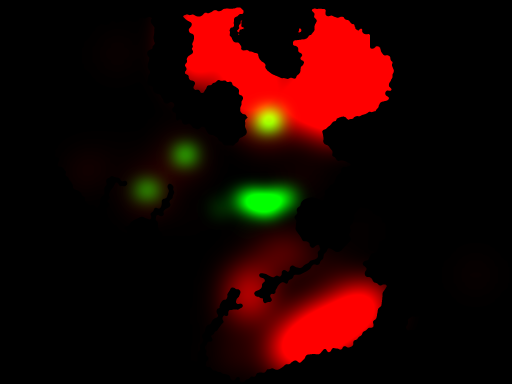
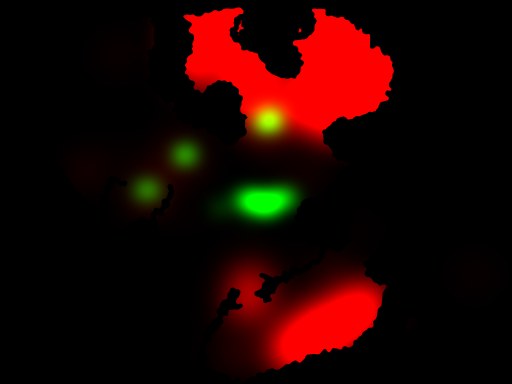
Valdoro on its own higher plateau; zoomable menu map; full-screen button
- Valdoro and its surroundings stand at 12 m, above the central highland: the two
  cracks drawn south-west of it are its cliffs (~18-20 m down to the great forest),
  the sea its east side, slopes north to Roccanera's level and south to the bridge.
  The hill beside the castle was the map's "VALDORO" label read as relief: the
  label is now excluded (world-layers.py) and the layers regenerated.
- Menu map: zoom up to 5x (pinch, wheel, double click, + and -), drag, centre on
  me; the red mark keeps its screen size; the map image at full resolution.
- Full-screen button in the top bar (landscape lock where allowed; a message where
  the browser refuses, e.g. Safari on iPhone).

Claude-Session: https://claude.ai/code/session_01W2BWnsqSCVN6L5QTQsDyst

Changed region(s): [[0.4688, 0.5938, 0.625, 0.7188]]

diff --git a/web/src/components/GameMenu.jsx b/web/src/components/GameMenu.jsx
@@ -1,5 +1,5 @@
 import React, { useLayoutEffect, useRef, useState } from "react";
-import { X, Heart, Pause, RotateCw, Gauge, BatteryMedium, Sword, Shield, Shirt, Castle, Crown, Home, HardHat, Hand, FlaskConical } from "lucide-react";
+import { X, Heart, Pause, RotateCw, Gauge, BatteryMedium, Sword, Shield, Shirt, Castle, Crown, Home, HardHat, Hand, FlaskConical, Crosshair } from "lucide-react";
 import { ITEMS, SWORD_ITEM, TWO_HANDED, dmgReduction, sellPrice } from "@/game3d/items";
 import CharacterPreview from "@/components/CharacterPreview";
 import ItemPic from "@/components/ItemPic";
@@ -228,17 +228,59 @@ function ReputationTab({ hud }) {
 }
 
 // ---- Map tab: the map of Vasilad (the user's drawing), with where the player is and which way it faces ----------
+// The map can be zoomed (two fingers, the mouse wheel, + and -) and dragged; the red mark (where you are, the arrow
+// where you look) keeps its size on the screen whatever the zoom. The view is kept while the game runs.
+const MAX_ZOOM = 5;
+let lastMapView = { z: 1, cx: MAP.w / 2, cy: MAP.h / 2 };
 function MapTab({ hud }) {
   const [px, py, yaw] = hud.map || [MAP.ox, MAP.oz, 0];
+  const [view, setViewState] = useState(lastMapView);
+  const svgRef = useRef(null), ptrs = useRef(new Map()), gest = useRef(null), viewRef = useRef(view);
+  const setView = (v) => {                                     // (kept inside the map)
+    const z = Math.min(MAX_ZOOM, Math.max(1, v.z)), hw = MAP.w / 2 / z, hh = MAP.h / 2 / z;
+    const nv = { z, cx: Math.min(MAP.w - hw, Math.max(hw, v.cx)), cy: Math.min(MAP.h - hh, Math.max(hh, v.cy)) };
+    viewRef.current = lastMapView = nv; setViewState(nv);
+  };
+  // the svg's box and the map's pixels per map unit at zoom 1 (the map fits it whole, centred)
+  const box = () => { const r = svgRef.current.getBoundingClientRect(); return { r, s1: Math.min(r.width / MAP.w, r.height / MAP.h) }; };
+  const mapAt = (v, sx, sy) => { const { r, s1 } = box(); return [v.cx + (sx - r.left - r.width / 2) / (s1 * v.z), v.cy + (sy - r.top - r.height / 2) / (s1 * v.z)]; };
+  // the view at zoom z that shows map point m under the screen point (sx, sy)
+  const viewWith = (z, [mx, my], sx, sy) => { const { r, s1 } = box(); z = Math.min(MAX_ZOOM, Math.max(1, z)); return { z, cx: mx + (r.left + r.width / 2 - sx) / (s1 * z), cy: my + (r.top + r.height / 2 - sy) / (s1 * z) }; };
+  const startGesture = () => {
+    const v = viewRef.current, p = [...ptrs.current.values()];
+    if (p.length >= 2) { const mx = (p[0].x + p[1].x) / 2, my = (p[0].y + p[1].y) / 2; gest.current = { z0: v.z, d0: Math.hypot(p[0].x - p[1].x, p[0].y - p[1].y) || 1, m: mapAt(v, mx, my) }; }
+    else if (p.length === 1) gest.current = { z0: v.z, m: mapAt(v, p[0].x, p[0].y) };
+    else gest.current = null;
+  };
+  const down = (e) => { try { e.currentTarget.setPointerCapture(e.pointerId); } catch { /* (synthetic) */ } ptrs.current.set(e.pointerId, { x: e.clientX, y: e.clientY }); startGesture(); };
+  const move = (e) => {
+    if (!ptrs.current.has(e.pointerId) || !gest.current) return;
+    ptrs.current.set(e.pointerId, { x: e.clientX, y: e.clientY });
+    const p = [...ptrs.current.values()], g = gest.current;
+    if (p.length >= 2 && g.d0) { const mx = (p[0].x + p[1].x) / 2, my = (p[0].y + p[1].y) / 2; setView(viewWith(g.z0 * (Math.hypot(p[0].x - p[1].x, p[0].y - p[1].y) / g.d0), g.m, mx, my)); }
+    else if (p.length === 1) setView(viewWith(g.z0, g.m, p[0].x, p[0].y));
+  };
+  const up = (e) => { ptrs.current.delete(e.pointerId); startGesture(); };
+  const wheel = (e) => { const v = viewRef.current; setView(viewWith(v.z * Math.exp(-e.deltaY * 0.0015), mapAt(v, e.clientX, e.clientY), e.clientX, e.clientY)); };
+  const zoomBy = (f) => { const v = viewRef.current; setView({ ...v, z: v.z * f }); };
+  const centre = () => { const v = viewRef.current; setView({ z: v.z < 2 ? 2.5 : v.z, cx: px, cy: py }); };
+  const { z, cx, cy } = view, vw = MAP.w / z, vh = MAP.h / z;
   return (
-    <div className="h-full min-h-0 flex items-center justify-center rounded-sm border border-[#3a2a17] bg-black/30" data-testid="map-tab">
-      <svg viewBox={`0 0 ${MAP.w} ${MAP.h}`} preserveAspectRatio="xMidYMid meet" className="h-full w-full" role="img" aria-label="Mappa di Vasilad">
+    <div className="relative h-full min-h-0 flex items-center justify-center rounded-sm border border-[#3a2a17] bg-black/30 overflow-hidden" data-testid="map-tab">
+      <svg ref={svgRef} viewBox={`${(cx - vw / 2).toFixed(1)} ${(cy - vh / 2).toFixed(1)} ${vw.toFixed(1)} ${vh.toFixed(1)}`} preserveAspectRatio="xMidYMid meet"
+        className="h-full w-full cursor-grab select-none" style={{ touchAction: "none" }} role="img" aria-label="Mappa di Vasilad"
+        onPointerDown={down} onPointerMove={move} onPointerUp={up} onPointerCancel={up} onWheel={wheel} onDoubleClick={(e) => { const v = viewRef.current; setView(viewWith(v.z * 2, mapAt(v, e.clientX, e.clientY), e.clientX, e.clientY)); }}>
         <image href={MAPPA} x="0" y="0" width={MAP.w} height={MAP.h} />
-        <g transform={`translate(${px.toFixed(1)} ${py.toFixed(1)}) rotate(${(180 - (yaw * 180) / Math.PI).toFixed(1)})`} data-testid="map-me">
+        <g transform={`translate(${px.toFixed(1)} ${py.toFixed(1)}) scale(${(1 / z).toFixed(4)}) rotate(${(180 - (yaw * 180) / Math.PI).toFixed(1)})`} data-testid="map-me">
           <circle r="42" fill="#b3261e" stroke="#fff3d0" strokeWidth="10" />
           <path d="M0 -76 L24 -32 L-24 -32 Z" fill="#fff3d0" stroke="#3a1a12" strokeWidth="4" />
         </g>
       </svg>
+      <div className="absolute right-1.5 bottom-1.5 flex flex-col gap-1.5" data-ui="">
+        <button type="button" data-ui="" className="inv-btn inv-btn-lg !px-0 w-10 h-10 text-[22px] leading-none" onClick={() => zoomBy(1.6)} aria-label="Ingrandisci" data-testid="map-zoom-in">+</button>
+        <button type="button" data-ui="" className="inv-btn inv-btn-lg !px-0 w-10 h-10 text-[22px] leading-none" onClick={() => zoomBy(1 / 1.6)} aria-label="Rimpicciolisci" data-testid="map-zoom-out">−</button>
+        <button type="button" data-ui="" className="inv-btn inv-btn-lg !px-0 w-10 h-10 flex items-center justify-center" onClick={centre} aria-label="Centra su di me" data-testid="map-centre"><Crosshair size={20} /></button>
+      </div>
     </div>
   );
 }

diff --git a/web/src/pages/Village3D.jsx b/web/src/pages/Village3D.jsx
@@ -1,5 +1,5 @@
 import React, { useEffect, useRef, useState } from "react";
-import { Heart, Coins, Sword, Wind, MessageSquare, Sun, Moon, EyeOff, Eye, Camera, Menu as MenuIcon, Shield, Hand, Footprints, Ear, FlaskConical } from "lucide-react";
+import { Heart, Coins, Sword, Wind, MessageSquare, Sun, Moon, EyeOff, Eye, Camera, Menu as MenuIcon, Shield, Hand, Footprints, Ear, FlaskConical, Maximize, Minimize } from "lucide-react";
 import { createGame, POWER_FPS } from "@/game3d/engine";
 import { loadNature } from "@/game3d/nature";
 import { loadTerrain } from "@/game3d/terrain";
@@ -74,7 +74,31 @@ function FpsMeter({ getStats, cap }) {
   return <div className={`fixed top-8 left-2 z-20 px-1.5 rounded-sm bg-black/60 font-pixel text-[13px] pointer-events-none ${c}`} data-testid="hud3d-fps">{v.fps} FPS · max {v.worst} ms</div>;
 }
 
-function TopBar({ hud, onMenu, onCamera }) {
+// Full screen (the phone's browser bars hidden, landscape where the phone allows it to be locked). Asked from a tap;
+// where the browser does not allow it (iPhone's Safari, or the page's frame) `refused` is called.
+const fullEl = () => document.fullscreenElement || document.webkitFullscreenElement;
+function toggleFull(refused) {
+  try {
+    if (fullEl()) { (document.exitFullscreen || document.webkitExitFullscreen).call(document); return; }
+    const el = document.documentElement, ask = el.requestFullscreen || el.webkitRequestFullscreen;
+    if (!ask) { refused(); return; }
+    Promise.resolve(ask.call(el, { navigationUI: "hide" }))
+      .then(() => screen.orientation?.lock?.("landscape")).catch(() => {})
+      .finally(() => setTimeout(() => { if (!fullEl()) refused(); }, 700));
+  } catch { refused(); }
+}
+function useFull() {
+  const [full, setFull] = useState(false);
+  useEffect(() => {
+    const on = () => setFull(!!fullEl());
+    document.addEventListener("fullscreenchange", on); document.addEventListener("webkitfullscreenchange", on);
+    return () => { document.removeEventListener("fullscreenchange", on); document.removeEventListener("webkitfullscreenchange", on); };
+  }, []);
+  return full;
+}
+
+function TopBar({ hud, onMenu, onCamera, onFull }) {
+  const full = useFull();
   if (!hud) return null;
   const crown = hud.places?.find((p) => p.face);
   return (
@@ -95,6 +119,7 @@ function TopBar({ hud, onMenu, onCamera }) {
       {hud.heard && <span title="Ti hanno sentito"><Ear size={14} className="text-amber-300 animate-pulse" data-testid="hud3d-heard" /></span>}
       <span className="flex items-center gap-1 text-[11px] text-[#cfc2a8]/80" data-testid="hud3d-clock">{hud.night ? <Moon size={11} /> : <Sun size={11} />}{clockOf(hud.dayT)} · {hud.mounted ? "A cavallo" : ZONE[hud.zone] || "Roccanera"}</span>
       <span className="ml-auto flex gap-1 pointer-events-auto" data-ui="">
+        <button onClick={onFull} className="h-6 px-1.5 rounded-sm bg-black/50 border border-[#4a3820] flex items-center" data-testid="village3d-full-btn" aria-label={full ? "Esci dallo schermo intero" : "Schermo intero"}>{full ? <Minimize size={13} /> : <Maximize size={13} />}</button>
         <button onClick={onCamera} className="h-6 px-1.5 rounded-sm bg-black/50 border border-[#4a3820] flex items-center gap-1 text-[11px]" data-testid="village3d-camera-btn" aria-label="Cambia telecamera"><Camera size={13} />{hud.view === "third" ? "3ª" : "1ª"}</button>
         <button onClick={onMenu} className="h-6 px-2 rounded-sm bg-black/50 border border-[#c9a24a]/70 text-[#e8c050] flex items-center gap-1 text-[12px]" data-testid="village3d-menu-btn"><MenuIcon size={14} />Menu</button>
       </span>
@@ -194,7 +219,8 @@ export default function Village3D() {
     <div className="fixed inset-0 overflow-hidden bg-black" data-testid="village3d-root">
       <canvas ref={canvasRef} className="absolute inset-0 w-full h-full touch-none" data-testid="village3d-canvas" />
       {!hud && <div className="fixed inset-0 z-50 flex items-center justify-center bg-[#0d0a08] font-title tracking-widest text-[#c9a24a]" data-testid="loading">Caricamento…</div>}
-      <TopBar hud={hud} onMenu={() => setMenuOpen(true)} onCamera={() => act("camera")} />
+      <TopBar hud={hud} onMenu={() => setMenuOpen(true)} onCamera={() => act("camera")}
+        onFull={() => toggleFull(() => { const t = "Lo schermo intero non è permesso qui (Safari su iPhone non lo consente): tieni il telefono in orizzontale."; setToast({ id: `${Date.now()}`, t }); clearTimeout(toastT.current); toastT.current = setTimeout(() => setToast(null), 6000); })} />
       {!dialog && <div className="fixed top-1/2 left-1/2 -translate-x-1/2 -translate-y-1/2 z-10 w-1.5 h-1.5 rounded-full bg-white/70 pointer-events-none" data-testid="crosshair" />}
       {hud?.foe && (
         <div className="fixed top-9 left-1/2 -translate-x-1/2 z-20 w-44 md:w-64 parchment rounded-md px-3 py-1.5" data-testid="foe-bar">

diff --git a/web/src/game3d/sites.js b/web/src/game3d/sites.js
@@ -25,6 +25,20 @@ const site = (id, anchor, atMap, r, has, y = 0) => {
 // The land's two levels: the central highland (Roccanera, the hills, the mine, Valdoro: at 0, where the old map was) and
 // the low lands round it (the great forest, the west, beyond the river): LOW. The sea is lower still (terrain.js SEA_Y).
 export const LOW = -8;
+// Valdoro's own plateau (the user, 27/11): the castle and the ground round it stand higher than the central highland,
+// a stronger position: the cracks drawn south-west of it are its cliffs (down to the great forest), the sea its east
+// side; northwards it slopes down to Roccanera's level (the road climbs it), southwards down to the river and its
+// bridge. The hill that stood beside the castle (in truth the map's "VALDORO" label, read as relief) and the green hills
+// north of it are levelled into it. Map pixels; cliff: true where both ends of a side are.
+export const VALDORO_Y = 12;
+export const VALDORO_HIGH = [
+  [958, 932, true], [995, 954, true], [1025, 967, true], [1048, 978, true], [1060, 992, true],   // the big crack
+  [1050, 1008, true], [1045, 1024, true], [1040, 1045, true], [1034, 1056],                    // the thin crack below it
+  [1075, 1040], [1120, 1026], [1160, 1012],                                                    // down to the river (the road to the bridge)
+  [1200, 975], [1212, 920], [1195, 860], [1170, 822],                                          // the sea
+  [1120, 795], [1050, 788], [998, 806],                                                        // beyond the hills, down towards Roccanera
+  [972, 850], [962, 895],
+];
 
 // The legacy mine: the mountain and the ground in front of its portal (the rock face, the lantern)
 const inMine = (x, z) => { const dx = x - CX, dz = z - CZ; return dx > -34 && dx < 21.5 && Math.abs(dz) < 31 && (mountainHeight(x, z) > 0 || (dx > 12 && Math.abs(dz) < 17)); };
@@ -32,7 +46,7 @@ const V_AT = [1132, 940], M_AT = [1170, 615], B_AT = [902, 1000];   // Valdoro's
 export const SITES = {
   // Valdoro (and the ground before its gate, with the knights): its square on the castle of the map, the gate facing
   // Roccanera, the castle's keep towards the sea.
-  valdoro: site("valdoro", [0, WZ - 18], V_AT, turn([0, -1], mapToWorld(...V_AT)), (x, z) => z < WZ + 10 && z > -165 && Math.abs(x) < 46),
+  valdoro: site("valdoro", [0, WZ - 18], V_AT, turn([0, -1], mapToWorld(...V_AT)), (x, z) => z < WZ + 10 && z > -165 && Math.abs(x) < 46, VALDORO_Y),
   // The forest of the bandits (its path, the camp): no longer before Valdoro's gate, but in the great forest south-west
   // of it, on the road from the hills to the western bridge (towards Dimirot); one walks its path southwards.
   bosco: site("bosco", [0, -62], B_AT, turn([0, -1], [-0.12, 0.99]), (x, z) => z < -29 && z >= WZ + 10 && Math.abs(x) < 46, LOW),
@@ -84,7 +98,7 @@ export const placeWorld = (lx, lz, ry = 0) => { const id = siteOf(lx, lz); retur
 // Shapes in each place's legacy coordinates: a circle [cx, cz, r] or a box [x0, z0, x1, z1].
 export const FLATS = [
   { site: "roccanera", circle: [0, 0, 52], blend: 30 },
-  { site: "valdoro", box: [-42, -160, 42, WZ + 12], blend: 24 },
+  { site: "valdoro", box: [-42, -160, 42, WZ + 12], blend: 24, y: VALDORO_Y },
   { site: "bosco", box: [-36, WZ + 8, 36, -27], blend: 20, trees: 0.5, y: LOW },   // (the great forest's trees right up to it)
   { site: "miniera", box: [CX - 33, CZ - 32, CX + 25, CZ + 32], blend: 24 },
 ];
@@ -118,6 +132,7 @@ export const HIGHLAND = [
   [880, 890], [965, 938, true], [995, 954, true], [1025, 967, true], [1048, 978, true], [1062, 990],
   [1080, 1030], [1150, 1045], [1230, 1030], [1320, 900], [1380, 650], [1320, 480], [1100, 470], [960, 520], [800, 560], [700, 620],
 ];
-// Smaller steps of the ground drawn on the map (the thin crack south of Valdoro's escarpment): along the line, the
-// ground on the side of the point `high` is higher by h, less and less over `fade` metres
-export const STEPS = [{ pts: [[1050, 1008], [1045, 1024], [1040, 1045], [1032, 1060], [1010, 1070]], h: 3.5, fade: 30, high: [1080, 1040] }];
+// Smaller steps of the ground drawn on the map: along the line, the ground on the side of the point `high` is higher by
+// h, less and less over `fade` metres. { pts: [[px, py], ...], h, fade, high: [px, py] } (the thin crack south of
+// Valdoro's escarpment was one: since 27/11 it is a cliff of Valdoro's plateau, VALDORO_HIGH)
+export const STEPS = [];

diff --git a/web/src/game3d/terrain.js b/web/src/game3d/terrain.js
@@ -19,7 +19,7 @@ import ERBA from "./terreno_erba.jpg";
 import ERBA_N from "./terreno_erba_n.jpg";
 import TERRA from "./terreno_terra.jpg";
 import TERRA_N from "./terreno_terra_n.jpg";
-import { MAP, SITES, FLATS, MINE_HOLE, ROADS, BRIDGES, HIGHLAND, STEPS, LOW, inSite, roadWorld, mapToWorld } from "./sites";
+import { MAP, SITES, FLATS, MINE_HOLE, ROADS, BRIDGES, HIGHLAND, STEPS, LOW, VALDORO_HIGH, VALDORO_Y, inSite, roadWorld, mapToWorld } from "./sites";
 import { groundMat } from "./ground";
 
 export const SEA_Y = -12.5;
@@ -114,6 +114,22 @@ export function highlandAt(x, z) {
   const sd = inPoly(x, z) ? d : -d, sharp = 1 - smooth(8, 34, dc), w = 70 + (5 - 70) * sharp;
   return smooth(-w / 2, w / 2, sd + (sharp > 0 ? fbm(x / 9, z / 9) * 2.4 * sharp : 0));   // (the cliff's line a little irregular)
 }
+// ---- Valdoro's plateau (sites.js VALDORO_HIGH): inside its outline the ground is at VALDORO_Y (barely rolling), the
+// hills that were there levelled into it; its sides cliffs where the cracks are drawn, long slopes elsewhere
+const VP = VALDORO_HIGH.map(([px, py, cliff]) => [...mapToWorld(px, py), !!cliff]);
+const VSEG = VP.map((a, i) => { const b = VP[(i + 1) % VP.length]; return { a, b, cliff: a[2] && b[2] }; });
+const VBOX = [Math.min(...VP.map((p) => p[0])) - 50, Math.max(...VP.map((p) => p[0])) + 50, Math.min(...VP.map((p) => p[1])) - 50, Math.max(...VP.map((p) => p[1])) + 50];
+function plateauAt(x, z) {
+  if (x < VBOX[0] || x > VBOX[1] || z < VBOX[2] || z > VBOX[3]) return 0;
+  let d = Infinity, dc = Infinity, inside = false;
+  for (const sg of VSEG) { const dd = segD(x, z, sg.a, sg.b); d = Math.min(d, dd); if (sg.cliff) dc = Math.min(dc, dd); }
+  for (let i = 0, j = VP.length - 1; i < VP.length; j = i++) {
+    const [xi, zi] = VP[i], [xj, zj] = VP[j];
+    if ((zi > z) !== (zj > z) && x < ((xj - xi) * (z - zi)) / (zj - zi) + xi) inside = !inside;
+  }
+  const sd = inside ? d : -d, sharp = 1 - smooth(8, 30, dc), w = 64 + (5 - 64) * sharp;
+  return smooth(-w / 2, w / 2, sd + (sharp > 0 ? fbm(x / 9 + 3.3, z / 9 - 1.4) * 2.4 * sharp : 0));   // (the cliff's line a little irregular)
+}
 // ---- the smaller steps: a short steep rise to the high side, its top sloping down again over `fade` metres
 const ST = STEPS.map((st) => {
   const pts = st.pts.map(([px, py]) => mapToWorld(px, py)), [hx, hz] = mapToWorld(...st.high), xs = pts.map((p) => p[0]), zs = pts.map((p) => p[1]);
@@ -190,6 +206,8 @@ export function heightAt(x, z) {
     if (m > 0.01) h += (70 * m ** 1.6 * (0.5 + 0.5 * ridge(x / 95, z / 95)) + 8 * m * fbm(x / 20, z / 20)) * inland;
     h += stepAt(x, z);
   }
+  const pw = plateauAt(x, z) * smooth(1, 12, d);                                 // Valdoro's plateau (never over the sea)
+  if (pw > 0) h += (VALDORO_Y + fbm(x / 70 + 5.1, z / 70 - 2.7) * 1.2 + vnoise(x / 13, z / 13) * 0.3 - h) * pw;
   const [w, fy] = flatAt(x, z);
   if (w > 0) h += (fy - h) * w;
   return h;

diff --git a/web/tools/world-layers.py b/web/tools/world-layers.py
@@ -73,7 +73,8 @@ IR, IG, IB = icons[..., 0], icons[..., 1], icons[..., 2]
 im = (IR + IG + IB) / 3
 tree = drawn & (IG >= IR - 4) & (IG > IB + 8) & (im < 120)
 NOT_RELIEF = [   # x0, y0, x1, y1 (map pixels): places and their names, bridges, the tower, the camp, the legend, the dragon
-    (775, 630, 925, 785), (1035, 660, 1210, 715), (1000, 840, 1205, 1005), (1080, 1100, 1265, 1240), (840, 1275, 1020, 1410),
+    # (Valdoro's rectangle reaches down over its whole label: its lower half had become a hill beside the castle)
+    (775, 630, 925, 785), (1035, 660, 1210, 715), (1000, 840, 1218, 1036), (1080, 1100, 1265, 1240), (840, 1275, 1020, 1410),
     (1695, 975, 1895, 1120), (415, 125, 480, 225), (1085, 1030, 1195, 1090), (825, 1195, 915, 1255), (60, 1200, 430, 1440),
     (1580, 280, 1770, 400), (1430, 740, 1610, 980),
     (680, 725, 790, 860), (920, 905, 1030, 990),     # the two ravines (later: cliffs)

diff --git a/PIANO.md b/PIANO.md
@@ -447,8 +447,15 @@ torre, grotte; poi il serpente marino).
   piazza dentro le mura. Valdoro ora è chiusa tutto intorno (rettangoli per mura laterali, retro, mastio, estremità delle
   mura). Niente più recinto del vecchio mondo; l'acqua profonda (più di ~0,5 m) non si attraversa. Cavalli e cavalieri
   alla quota del terreno (`saddleY + floorY`).
-- Menu: scheda **Mappa** (`GameMenu.jsx` `MapTab`): il disegno della mappa (`mondo/mappa.jpg`, 1152 × 864) con un segno
-  rosso dove sei e una freccia dove guardi (nel castello: alla sua porta). HUD: `map` = pixel della mappa e direzione.
+- Menu: scheda **Mappa** (`GameMenu.jsx` `MapTab`): il disegno della mappa (`mondo/mappa.jpg`, dal 27/11 a piena
+  risoluzione 2048 × 1536, un pixel per metro: `sharp("assets/mappa/vasilad.jpg").resize(2048, 1536).jpeg({ quality: 72,
+  mozjpeg: true })`, 327 KB) con un segno rosso dove sei e una freccia dove guardi (nel castello: alla sua porta). **Dal
+  27/11 si ingrandisce** (fino a 5×: due dita, rotellina, doppio clic, tasti + e −) e si trascina; il tasto col mirino
+  centra su di te; il segno resta della stessa grandezza sullo schermo; l'ingrandimento resta finché la pagina è aperta
+  (`lastMapView`). HUD: `map` = pixel della mappa e direzione.
+- **Schermo intero** (27/11): tasto nella barra in alto (`Village3D.jsx` `toggleFull`: `requestFullscreen` dal tocco, poi
+  il blocco in orizzontale dove il telefono lo permette); dove non si può (Safari su iPhone non ha lo schermo intero per
+  le pagine, o la cornice della pagina lo vieta) un messaggio lo dice.
 - Salvataggi: nuova chiave `vasilad.v1` (quelli del vecchio mondo compatto non si caricano più). Pagina pubblicata: le
   immagini di `mondo/` sono dentro il codice (vite.config.js), come le texture del terreno.
 
@@ -487,6 +494,15 @@ torre, grotte; poi il serpente marino).
   `pushOut`) e la telecamera. Nella grande foresta la luce e la nebbia diventano da bosco (`SELVA`, `wildF`), HUD
   "Grande foresta".
 - Il sole e le sue ombre seguono il giocatore anche in quota (montagne).
+- **Altopiano di Valdoro (27/11, richiesta dell'utente)**: Valdoro è più in alto, posizione più forte se attaccata: il
+  castello e i dintorni stanno a `VALDORO_Y = 12` (`sites.js VALDORO_HIGH`: un poligono in pixel della mappa;
+  `terrain.js plateauAt`): i due crepacci disegnati a sud-ovest (quello grande verso la grande foresta e quello sottile
+  sotto) sono le sue **pareti** (~18–20 m fino alle terre basse), a est il mare (costa a picco), a nord scende in pendio
+  fino al livello di Roccanera (la strada sale con ~10%), a sud fino al fiume e al ponte nord (strada ripida, ~25%). Le
+  colline verdi a nord del castello sono livellate alla stessa quota. La "montagnetta di fianco" al castello (18–23 m) era
+  la scritta "VALDORO" della mappa letta come rilievo: in `world-layers.py` il rettangolo di Valdoro (`NOT_RELIEF`) ora
+  copre tutta la scritta (y fino a 1036) e gli strati sono rigenerati. `SITES.valdoro.y` e il `FLATS` di Valdoro a 12:
+  città, mura, castello, cavalieri, oggetti salgono con lei (prova `gioco.cjs`: piazza e uscita dal castello a 12).
 - **Vista lontana (27/11, richiesta dell'utente: "da lontano si vede solo il cielo")**: nebbia più leggera all'aperto
   (`DAYLOOK`: campagna 45–520 m, Roccanera 40–440, Valdoro 35–400, bosco dei banditi 12–75, grande foresta `SELVA`
   14–90; la notte come prima), telecamera fino a 640 m. Oltre 170 m dalla telecamera il terreno è il **terreno
@@ -503,8 +519,8 @@ torre, grotte; poi il serpente marino).
   quota 0 come il vecchio mondo; le **terre basse** intorno (grande foresta, ovest, oltre il fiume) a `LOW = -8` (in
   media). Il contorno dell'altopiano è un poligono in pixel della mappa: dove la mappa disegna le scarpate (a sud-ovest di
   Roccanera e di Valdoro, `cliff: true`) il bordo è una **parete** di ~8 m larga pochi metri (linea un po' irregolare),
-  altrove un pendio lungo ~70 m. La crepa sottile sotto la scarpata di Valdoro è un gradino di 3,5 m (`STEPS`, lato alto
-  verso il punto `high`). Il bosco dei banditi sta nelle terre basse: i luoghi hanno ora un'**altezza** (`SITES.*.y`,
+  altrove un pendio lungo ~70 m. (La crepa sottile sotto la scarpata di Valdoro era un gradino di 3,5 m, `STEPS`: dal
+  27/11 è una parete dell'altopiano di Valdoro, sotto.) Il bosco dei banditi sta nelle terre basse: i luoghi hanno ora un'**altezza** (`SITES.*.y`,
   `heightOf`; bosco `LOW`), con cui si spostano modelli, pezzi dei pacchetti e foglie; `FLATS` spiana alla quota del luogo.
 - **Acqua**: il mare è più basso (`SEA_Y = -12.5`), le rive scendono presto (0,32 m per metro), il fondo prende il colore
   dell'acqua e l'acqua è più coprente: fiumi e insenature si vedono (prima erano pochi cm d'acqua su sabbia).
@@ -535,8 +551,8 @@ torre, grotte; poi il serpente marino).
 - **Prove**: `web/tools/prove/` (vedi il suo README): `gioco.cjs`, `foto.cjs`, `alto.cjs`, `produzione.cjs`.
 - **Coordinate**: mondo = pixel della mappa − (860, 708); 1 pixel = 1 m; x verso est, z verso sud. Il vecchio contenuto
   resta in coordinate legacy (`world.js`) e si sposta con `sites.js` (`SITES`: posizione, rotazione, altezza `y`).
-- **Livelli**: altopiano a 0 (Roccanera, colline, miniera, Valdoro), terre basse a `LOW = -8`, mare a `SEA_Y = -12.5`.
-  Un luogo nuovo nelle terre basse va a quota `LOW` (come il bosco dei banditi).
+- **Livelli**: altopiano a 0 (Roccanera, colline, miniera), **Valdoro sul suo altopiano a `VALDORO_Y = 12`**, terre basse
+  a `LOW = -8`, mare a `SEA_Y = -12.5`. Un luogo nuovo nelle terre basse va a quota `LOW` (come il bosco dei banditi).
 - **Dati della mappa**: `python3 web/tools/world-layers.py [anteprima.png]` rigenera `web/src/game3d/mondo/*.png` dalle due
   mappe in `assets/mappa/` (da rifare se l'utente cambia la mappa; i rettangoli di eccezione sono in pixel della mappa).
 - **Pezzi del kit non ancora usati**: case `house_01`, `house_06`, `house_08`, `house_09`, `house_10`; torri e mura;
